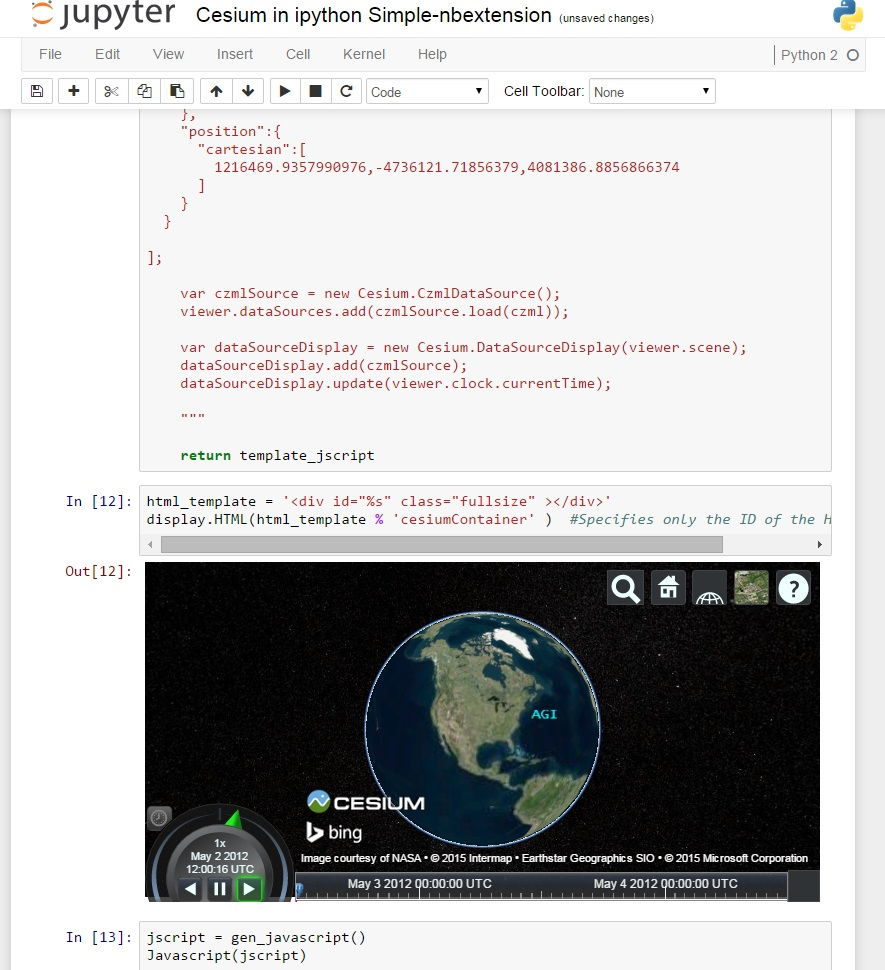
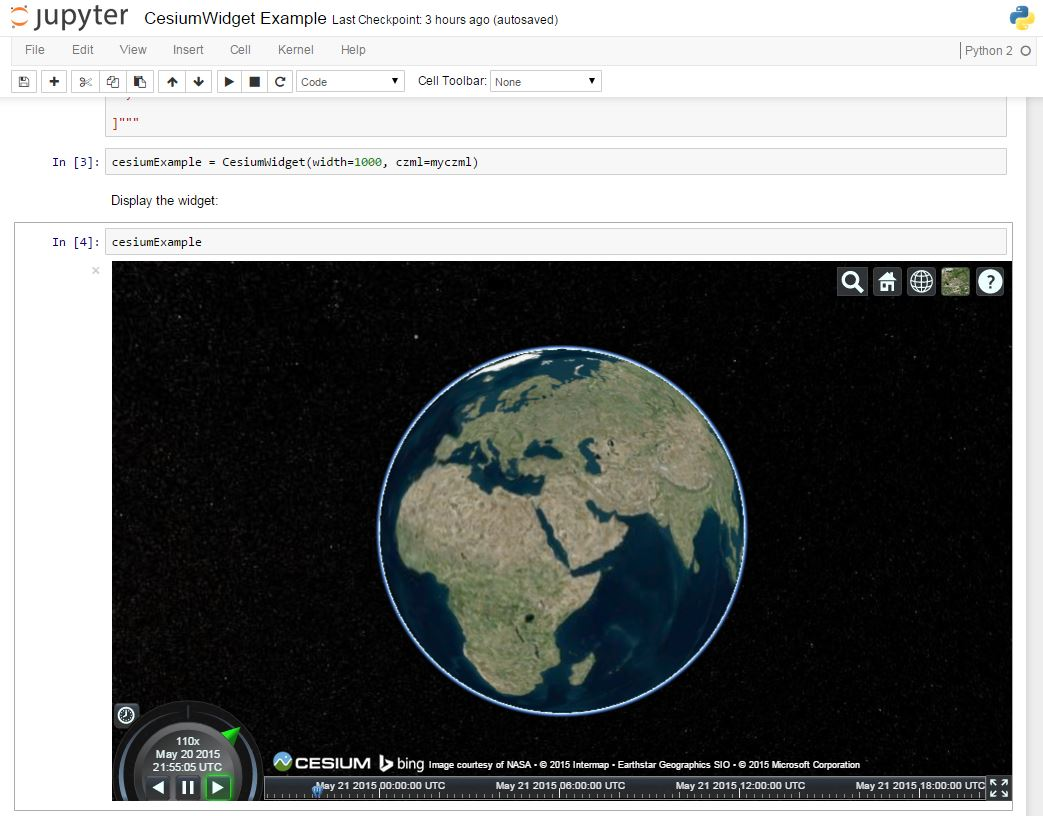
Update the baseurl for cesium and changed to the source instead of built version. First version that shows the widget!

diff --git a/CesiumWidget/cesium_widget.js b/CesiumWidget/cesium_widget.js
@@ -6,12 +6,14 @@
  * @version 0.1.0
  * @license Apache
 
-TODO: not sure css loading works, add CSS loading to /nbextensions/CesiumWidget/cesium/Build/Cesium/Widgets/widgets.css
 
  */
+var cesium_root = IPython.notebook.base_url + 'nbextensions/CesiumWidget/cesium/Source'
+var cesium_path = cesium_root + '/Cesium';
 
-var cesium_path = IPython.notebook.base_url + 'nbextensions/CesiumWidget/cesium/Build/Cesium/Cesium';
 require.config({
+    baseUrl : cesium_root,
+        waitSeconds : 60,
     paths: {
         cesium: cesium_path
     },
@@ -27,26 +29,28 @@ define(
         'underscore',
         'widgets/js/widget',
         'widgets/js/manager',
-        '/nbextensions/CesiumWidget/cesium/Build/Cesium/Cesium.js'], function ($, _, widget, manager, Cesium) {
+        'cesium'], function ($, _, widget, manager, Cesium) {
         
         'use strict';
 
         var cssref = $('<link/>')
         .attr('rel', 'stylesheet')
         .attr('type', 'text/css')
-        .attr('href', IPython.notebook.base_url + 'nbextensions/CesiumWidget/cesium/Build/Cesium/Widgets/widgets.css')
+        .attr('href', IPython.notebook.base_url + 'nbextensions/CesiumWidget/cesium/Source/Widgets/widgets.css')
         .appendTo($('head'));
-        console.log('Running function');
+        //console.log('Running function');
 
         var CesiumView = widget.DOMWidgetView.extend({
             
             render: function () {
                 CesiumView.__super__.render.apply(this, arguments);
-                console.log('Running Render');
-                console.log(this);
+                //console.log('Running Render');
+                //onsole.log(this);
+                //console.log(Cesium);
+
                 var WIDTH = this.model.get('width'),
                     HEIGHT = this.model.get('height');
-                var model = this.model;
+
                 this.$frame = $('<div/>').height(HEIGHT).width(WIDTH).uniqueId().appendTo(this.$el);
 
                 this.cesiumId = this.$frame[0].id;
@@ -75,7 +79,6 @@ define(
                 // Seems to need to be here to access the DIV id
                 if (!this.has_drawn) {
                     this.has_drawn = true;
-                    // Somehow Cesium isn't available here
                     this.viewer = new Cesium.Viewer(this.cesiumId);
                 }
 
